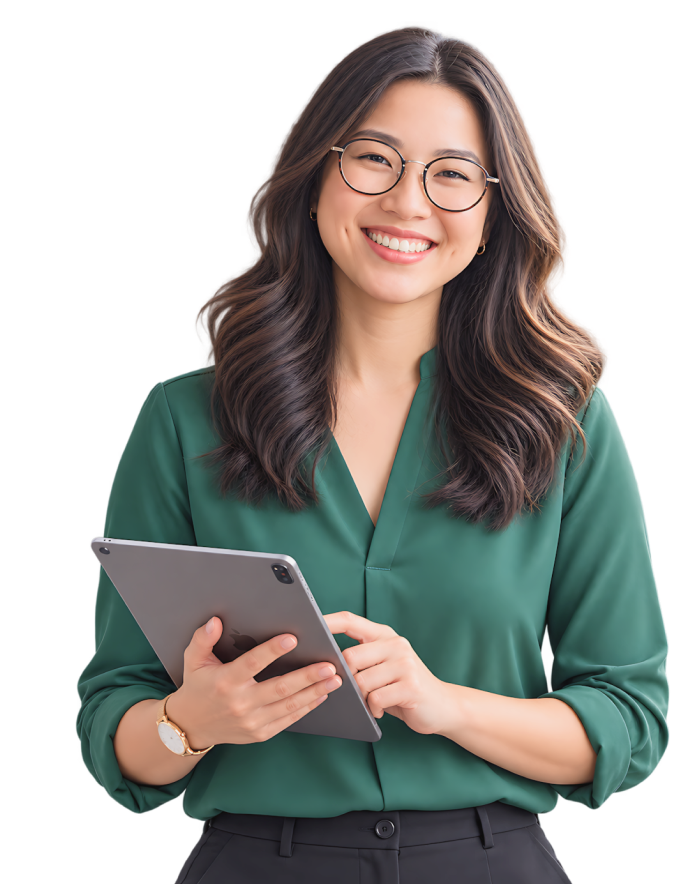
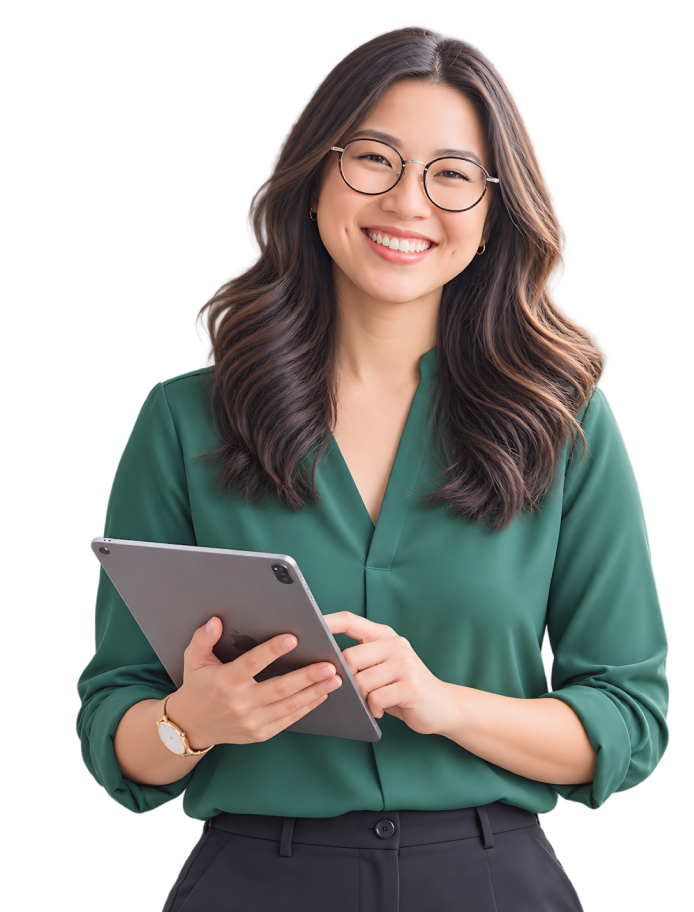
fix(apis-hub): finalize hero and module assets
Update the card_arrow and hero photo images, set the card_arrow dimensions to
the new 1442x912 so the optimized image is no longer cropped, and offset the
card overlay by top-10.

diff --git a/app/components/sections/ApisHero.vue b/app/components/sections/ApisHero.vue
@@ -38,12 +38,12 @@ const moduleIcons: HeroModuleIcon[] = [
       <NuxtImg
         format="webp"
         src="/images/modulos-apis-hub-integrador/card_arrow.png"
-        :width="1440"
-        :height="816"
+        :width="1442"
+        :height="912"
         sizes="100vw tablet-lg:50vw desktop-full:720px"
         alt="Cartões flutuantes do módulo" title="Cartões flutuantes do módulo"
         aria-hidden="true"
-        class="pointer-events-none absolute z-[1] left-0 top-0 h-auto w-full"
+        class="pointer-events-none absolute z-[1] left-0 top-10 h-auto w-full"
       />
 
       <div
